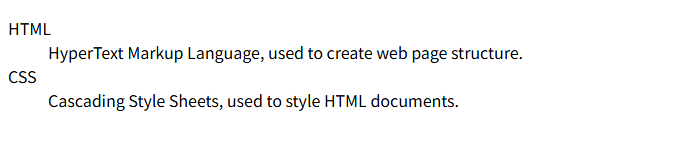
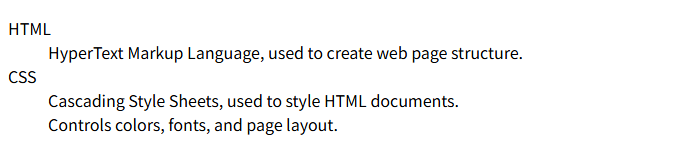
docs(html-css): expand ch.1 with pre/code, global attributes, mark, mailto/tel, figure, semantic-pair rationale, dl and entity improvements (zh+en)

diff --git a/web-development/frontend/html-css/html-css-english-version/01-html-basics.md b/web-development/frontend/html-css/html-css-english-version/01-html-basics.md
@@ -142,6 +142,16 @@ Common rules:
 - Separate multiple attributes with a single space.
 - Boolean attributes (such as `checked` or `disabled`) can omit the value in HTML5.
 
+**Global attributes (usable on every tag):**
+
+| Attribute | Purpose |
+|-----------|---------|
+| `id` | A unique identifier for the element (used by anchor jumps, CSS, and JS) |
+| `class` | A reusable category name; an element can have several (CSS styles elements by class) |
+| `title` | Tooltip text shown on hover |
+| `style` | Inline styles (CSS written directly on the tag) |
+| `hidden` | Hides the element (a boolean attribute) |
+
 ### 1.1.3 HTML Comments
 
 Comments are not rendered by the browser. They are used to annotate code or temporarily disable a block of markup.
@@ -241,8 +251,6 @@ A generic inline container used to style a portion of text within a larger block
 <h4>Heading Level 4</h4>
 <h5>Heading Level 5</h5>
 <h6>Heading Level 6</h6>
-<p>This is <strong>important</strong>, <em>emphasized</em>, <del>deleted</del>, and <ins>inserted</ins> text.</p>
-<p>H<sub>2</sub>O and E = mc<sup>2</sup></p>
 ```
 ![[ch1-text-tags.png]]
 
@@ -284,14 +292,23 @@ Two default behaviors to know:
 | `<ins>` | Underline | Inserted text |
 | `<sub>` | Subscript | Chemical formulas and indices |
 | `<sup>` | Superscript | Exponents and footnotes |
+| `<mark>` | Yellow highlight | Marked/highlighted text |
+
+**Why the pairs exist, and how to choose:**
+
+- **Presentational vs semantic**: `<b>`/`<i>` only say "how it looks", while `<strong>`/`<em>` say "what it means" — they look identical only because browsers give them the same default styles.
+- **The value of semantics**: screen readers change their tone for `<strong>`/`<em>` (but not for `<b>`/`<i>`); search engines treat `<strong>` content as more important; to restyle all "important text" at once, targeting `strong` in CSS works site-wide.
+- **`<del>`/`<ins>` go further**: they mark document revisions and accept `datetime`/`cite` attributes to record when and why (this powers wiki edit histories); `<s>`/`<u>` merely mean "no longer accurate" or a plain underline.
+- **How to choose**: use the semantic tag whenever there is meaning (`<strong>` for importance, `<em>` for emphasis, `<del>`/`<ins>` for revisions); reserve `<b>`/`<i>` for purely decorative cases. The ultimate rule: **CSS owns presentation; HTML owns meaning**.
 
 ```html
-<!-- One-to-one with the table above: all 10 formatting tags (visually identical pairs share a line) -->
+<!-- One-to-one with the table above: all 11 formatting tags (visually identical pairs share a line) -->
 <p><b>Bold (b)</b> vs <strong>Bold (strong)</strong></p>
 <p><i>Italic (i)</i> vs <em>Italic (em)</em></p>
 <p><del>Strikethrough (del)</del> vs <s>Strikethrough (s)</s></p>
 <p><u>Underline (u)</u> vs <ins>Underline (ins)</ins></p>
 <p>H<sub>2</sub>O (sub) and x<sup>2</sup> (sup)</p>
+<p><mark>Highlight (mark)</mark></p>
 ```
 
 ![[ch1-text-formatting.png]]
@@ -321,6 +338,23 @@ are ignored too.</p>
 
 ![[ch1-br-hr.png]]
 
+#### 1.2.2.6 `<pre>` and `<code>` — Preformatted Text and Code
+
+- **`<pre>` (preformatted text)**: preserves all spaces and line breaks from the source — **immune to whitespace collapsing** (see 1.2.2.4). Commonly used for code blocks, poems, or any text where formatting must be kept.
+- **`<code>` (inline code)**: renders a short piece of code in a monospace font; usually nested inside `<pre>` or a paragraph.
+
+```html
+<!-- pre keeps spaces and line breaks; p collapses them (compare 1.2.2.4) -->
+<pre><code>function hello() {
+    console.log("indented");
+}</code></pre>
+<p>function hello() {
+    console.log("collapsed");
+}</p>
+```
+
+![[ch1-pre-code.png]]
+
 ### 1.2.3 Link and Media Tags
 
 #### 1.2.3.1 `<a>` — Anchor (Hyperlink)
@@ -343,6 +377,10 @@ are ignored too.</p>
 
 <!-- Open in a new tab -->
 <a href="https://www.example.com" target="_blank">Open in New Tab</a>
+
+<!-- Special protocol links: open the mail client / dial a number (common on mobile) -->
+<a href="mailto:someone@example.com">Send Email</a>
+<a href="tel:+8613800138000">Call Us</a>
 ```
 
 ##### 1.2.3.1.3 In-Page Anchor Jump
@@ -413,7 +451,7 @@ Here is how links and an image render on the page (`photo.svg` is a local placeh
 
 #### 1.2.4.1 `<ul>` — Unordered List
 
-For parallel items with no particular order; rendered with bullet markers by default.
+For parallel items with no particular order; rendered with bullet markers by default. Both `<ul>` and `<li>` are block-level elements, so each `<li>` takes its own line.
 
 ```html
 <!-- Unordered list -->
@@ -424,6 +462,28 @@ For parallel items with no particular order; rendered with bullet markers by def
 ```
 
 ![[ch1-list-ul.png]]
+
+**List marker styles (`list-style`, also applies to `<ol>`):**
+
+- **Default**: a round bullet (`disc`) — no action needed.
+- **Change the marker**: `list-style: square;` switches to a square, etc. (good to know, rarely used).
+- **Remove the marker**: `list-style: none;` — **the mainstream practice in real development**: remove the default marker and style the list with CSS (navigation menus are built this way).
+- **Image marker**: `list-style-image: url(...);` (good to know).
+
+```html
+<!-- Three marker styles compared -->
+<ul>
+    <li>Default (disc)</li>
+</ul>
+<ul style="list-style: square;">
+    <li>Square</li>
+</ul>
+<ul style="list-style: none;">
+    <li>None (no marker)</li>
+</ul>
+```
+
+![[ch1-list-style.png]]
 
 #### 1.2.4.2 `<ol>` — Ordered List
 
@@ -439,17 +499,43 @@ For items with a sequence; numbered automatically. The `start` attribute sets th
 
 ![[ch1-list-ol.png]]
 
-#### 1.2.4.3 `<dl>` — Description List
+**Numbering types (`list-style-type`, good to know):**
 
-A list of terms and explanations: `<dt>` holds the term, `<dd>` holds the explanation.
+- **Default**: Arabic numerals (`decimal`: 1, 2, 3)
+- **Roman numerals**: `upper-roman` (I, II, III), `lower-roman` (i, ii, iii)
+- **Letters**: `upper-alpha` (A, B, C), `lower-alpha` (a, b, c)
+- In real development, `list-style: none` is also more common here — remove the numbering and style it yourself (see 1.2.4.1).
 
 ```html
-<!-- Description list -->
+<!-- Three numbering types compared -->
+<ol>
+    <li>decimal</li>
+    <li>decimal</li>
+</ol>
+<ol style="list-style-type: upper-roman;">
+    <li>upper-roman</li>
+    <li>upper-roman</li>
+</ol>
+<ol style="list-style-type: upper-alpha;">
+    <li>upper-alpha</li>
+    <li>upper-alpha</li>
+</ol>
+```
+
+![[ch1-list-style-type.png]]
+
+#### 1.2.4.3 `<dl>` — Description List
+
+A list of terms and explanations: `<dt>` holds the term, `<dd>` holds the explanation; one `<dt>` may have multiple `<dd>`.
+
+```html
+<!-- Description list: one dt may have multiple dd -->
 <dl>
     <dt>HTML</dt>
     <dd>HyperText Markup Language, used to create web page structure.</dd>
     <dt>CSS</dt>
     <dd>Cascading Style Sheets, used to style HTML documents.</dd>
+    <dd>Controls colors, fonts, and page layout.</dd>
 </dl>
 ```
 
@@ -485,6 +571,7 @@ An `<li>` can contain another complete list, forming a multi-level structure.
 - **`<ul>` / `<ol>`**: may only contain `<li>` directly (putting `<p>` or other tags directly inside is not recommended).
 - **`<li>`**: may contain any element, including a complete nested list.
 - **`<dl>`**: may only contain `<dt>` and `<dd>` directly, and both may appear multiple times.
+- **`<dd>`**: like `<li>`, it is a flow-content container and may legitimately hold block-level elements such as `<p>` (valid HTML, not discouraged).
 
 ### 1.2.5 Character Entities
 
@@ -502,10 +589,17 @@ Some characters have special meaning in HTML and must be escaped using entities.
 | `¥` | `&yen;` | Yen symbol |
 
 ```html
-<p>a &lt; b &gt; c</p>
+<p>a &lt; b &gt; c &amp; d</p>
+<p>Quote: &quot;Hello&quot;</p>
+<p>Spaced&nbsp;&nbsp;&nbsp;out (3 nbsp)</p>
+<p>Wide&emsp;space (1 emsp)</p>
 <p>Price: &yen;40</p>
 <p>Copyright &copy; 2024</p>
 ```
+
+![[ch1-entities.png]]
+
+Regular consecutive spaces are collapsed by the browser (see 1.2.2.4), but `&nbsp;` is not — use it when you really need multiple visible spaces on the page.
 
 ### 1.2.6 `<audio>` and `<video>` — Audio and Video
 
@@ -696,6 +790,7 @@ HTML5 introduces semantic elements that describe page structure more clearly tha
 | `<article>` | Self-contained, independently distributable content |
 | `<aside>` | Sidebar or tangentially related content |
 | `<footer>` | Footer for a page or section |
+| `<figure>` | A self-contained unit like an image or diagram (often with `<figcaption>` for a caption) |
 
 ```html
 <style>
